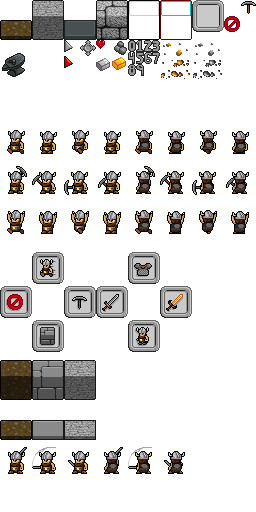
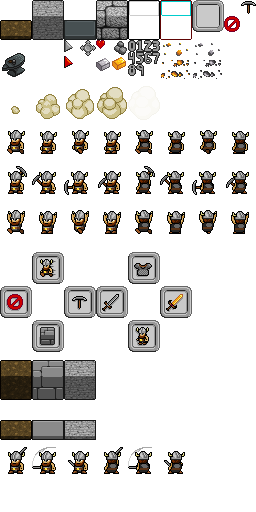
Bad Dust Performance

Changed region(s): [[0.125, 0.1562, 0.5, 0.25], [0.0312, 0.1875, 0.0938, 0.2188]]

diff --git a/src/ardust/client/Character.java b/src/ardust/client/Character.java
@@ -2,6 +2,7 @@ package ardust.client;
 
 import ardust.entities.Entity;
 import ardust.packets.DwarfRequestPacket;
+import ardust.packets.WorldUpdatesPacket;
 import ardust.shared.*;
 
 import java.awt.*;
@@ -26,6 +27,7 @@ public class Character {
     private int pathingFailStrike;
     private int miningFailStrike;
 
+
     public Character(Entity entity) {
         this.entity = entity;
     }
@@ -42,7 +44,7 @@ public class Character {
         }
     }
 
-    public void animateMining() {
+    public void animateMining( World world, Point2 targetLocation) {
         int currentFrame = sprite.currentFrame;
         switch (entity.orientation) {
             case NORTH:
@@ -54,6 +56,14 @@ public class Character {
         }
         if (sprite.currentFrame != currentFrame && sprite.currentFrame % 8 % 3 == 0) {
             GameLoop.soundBank.playSound(SoundBank.pickaxeSound, true);
+
+            if (random.nextDouble() < .3)
+            {
+                Point2 miningLocation = new Point2(location.x, location.y);
+                miningLocation.move(entity.orientation);
+                   world.temporaryAnimatedSprites.add(new SolitaryAnimatedSprite(16, 4, 5,miningLocation.x * Constants.TILE_BASE_WIDTH  + random.nextInt(24) - 12,
+                           miningLocation.y * Constants.TILE_BASE_HEIGHT - 32 + random.nextInt(24) - 12));
+            }
         }
     }
 
@@ -104,7 +114,7 @@ public class Character {
                 targetLocation.move(entity.orientation);
                 break;
             case MINING:
-                animateMining();
+                animateMining(world, targetLocation);
                 break;
             case ATTACK:
                 animateFighting();
@@ -141,12 +151,18 @@ public class Character {
                     }
                 }
                 break;
-            case USE:
-                if (!pathTowards(world, network, true)) {
+            case BUILD:
 
-                    // if reached, use
+                if (!pathTowards(world, network, false)) {
+
+                    if (pathingTarget.manhattanDistance(location.x, location.y) == 1 && !world.isTileOccupied(pathingTarget.x, pathingTarget.y, entity))
+                    {
+                        orientTowards(pathingTarget);
+                        network.send(new DwarfRequestPacket(id(), DwarfRequest.Build, entity.orientation));
+                    }
                     aiMode = CharacterAIMode.IDLE;
                 }
+
                 break;
             case IDLE:
                 break;
@@ -154,6 +170,15 @@ public class Character {
     }
 
     Point2 tempPoint = new Point2();
+
+    public void orientTowards(Point2 target)
+    {
+        if (target.x < location.x) entity.orientation = Orientation.WEST;
+        else if (target.x > location.x) entity.orientation = Orientation.EAST;
+        else if (target.y < location.y) entity.orientation = Orientation.NORTH;
+        else if (target.y > location.y) entity.orientation = Orientation.SOUTH;
+        else entity.orientation = Orientation.NONE;
+    }
 
     private Orientation orientationToward(World world, boolean goAround) {
         Orientation ew;
@@ -220,6 +245,13 @@ public class Character {
 
         tempPoint.set(targetLocation);
         tempPoint.move(orientation);
+
+        if (tempPoint.equals(pathingTarget) && aiMode == CharacterAIMode.BUILD)
+        {
+
+            return false;
+        }
+
         if (world.isTileOccupied(tempPoint, entity)) {
             pathingFailStrike -= 1;
             if (pathingFailStrike <= 0) {
@@ -292,8 +324,8 @@ public class Character {
         clearFailStrikes();
     }
 
-    public void use(Point2 target) {
-        aiMode = CharacterAIMode.USE;
+    public void build(Point2 target) {
+        aiMode = CharacterAIMode.BUILD;
         pathingTarget.set(target);
         clearFailStrikes();
     }

diff --git a/src/ardust/client/World.java b/src/ardust/client/World.java
@@ -9,6 +9,7 @@ import org.lwjgl.opengl.GL11;
 
 import java.awt.*;
 import java.nio.ByteBuffer;
+import java.util.ArrayList;
 import java.util.HashMap;
 
 public class World {
@@ -17,6 +18,7 @@ public class World {
     ClientWorld clientWorld;
     Entities entities;
     Characters characters;
+    ArrayList<SolitaryAnimatedSprite> temporaryAnimatedSprites = new ArrayList<SolitaryAnimatedSprite>();
 
 
     public World() {
@@ -31,6 +33,13 @@ public class World {
 
     public void tick(int deltaT, NetworkConnection network, GameCore core) {
         characters.tick(deltaT, this, network, core);
+        for (int i = temporaryAnimatedSprites.size() - 1; i >= 0; i--)
+        {
+            if (temporaryAnimatedSprites.get(i).animate())
+            {
+                temporaryAnimatedSprites.remove(i);
+            }
+        }
     }
 
     Point toDrawCoord = new Point();
@@ -83,6 +92,14 @@ public class World {
                                 tileSheetRect.x, tileSheetRect.y, tileSheetRect.width, tileSheetRect.height, false);
                     }
                 }
+
+                //Draw Animations
+                for (SolitaryAnimatedSprite sprite : temporaryAnimatedSprites)
+                {
+
+                    sprite.draw(p, viewportLocation);
+                }
+
                 //Draw Character
                 tilePoint.set(x, y);
                 Character character = charactersByPosition.get(tilePoint);
@@ -113,6 +130,12 @@ public class World {
         int x = worldLocation.x * Constants.TILE_BASE_WIDTH;
         int y = worldLocation.y * Constants.TILE_BASE_HEIGHT;
         result.setLocation(x, y);
+    }
+
+    public static void globalNonTileCoordToScreenCoord(int x, int y, Point result, Point viewportLocation)
+    {
+      result.setLocation(x - viewportLocation.x, y - viewportLocation.y);
+
     }
 
     public static void localCoordToGlobalTile(int x, int y, Point viewportLocation, Point result) {

diff --git a/src/ardust/client/SolitaryAnimatedSprite.java b/src/ardust/client/SolitaryAnimatedSprite.java
@@ -1,5 +1,10 @@
 package ardust.client;
 
+import org.lwjgl.opengl.ARBDrawElementsBaseVertex;
+
+import java.awt.*;
+import java.util.Random;
+
 /**
  * Created with IntelliJ IDEA.
  * User: Eric
@@ -7,5 +12,39 @@ package ardust.client;
  * Time: 12:45 PM
  * To change this template use File | Settings | File Templates.
  */
-public class SolitaryAnimatedSprite {
+public class SolitaryAnimatedSprite extends AnimatedSprite {
+    public int xLocation, yLocation;
+    int startingFrame;
+    int framesInAnimation;
+    int ticksPerFrame;
+
+    public SolitaryAnimatedSprite(int startingFrame, int framesInAnimation, int ticksPerFrame, int xLocation, int yLocation)
+    {
+        this.startingFrame = startingFrame;
+        this.framesInAnimation = framesInAnimation;
+        this.ticksPerFrame = ticksPerFrame;
+        this.xLocation = xLocation;
+        this.yLocation = yLocation;
+    }
+
+    public boolean animate() {
+        int tmp = accumulator;
+        accumulator = (accumulator + 1) % (ticksPerFrame * framesInAnimation);
+
+        currentFrame = startingFrame + (accumulator / ticksPerFrame);
+        return accumulator < tmp;
+    }
+
+    Point point = new Point();
+    Rectangle tileSheetRect = new Rectangle();
+
+    public void draw(Painter p, Point viewportLocation)
+    {
+
+        p.getSourceRectFromTileSheetIndex(currentFrame, tileSheetRect);
+
+        World.globalNonTileCoordToScreenCoord(xLocation, yLocation, point, viewportLocation);
+
+        p.draw(point.x, point.y, tileSheetRect.x, tileSheetRect.y, tileSheetRect.width, tileSheetRect.height, false);
+    }
 }

diff --git a/src/ardust/client/DwarfActionMenu.java b/src/ardust/client/DwarfActionMenu.java
@@ -39,7 +39,7 @@ public class DwarfActionMenu {
             return craftingMenu ? GameCore.UserInputState.ATTEMPTING_SWORD_PURCHASE : GameCore.UserInputState.HALT;
         if (buttons.get(MINE).contains(localX, localY))
             return craftingMenu ? GameCore.UserInputState.ATTEMPTING_GOLD_SWORD_PURCHASE : GameCore.UserInputState.MINE;
-        if (!craftingMenu && buttons.get(USE).contains(localX, localY)) return GameCore.UserInputState.USE;
+        if (!craftingMenu && buttons.get(USE).contains(localX, localY)) return GameCore.UserInputState.BUILD;
 
         return GameCore.UserInputState.NONE;
     }
@@ -56,6 +56,20 @@ public class DwarfActionMenu {
         Point drawPoint = getDrawPoint(viewportLocation);
 
         p.draw(drawPoint.x, drawPoint.y, (craftingMenu ? 96 : 0), 240, 96, 112, false);
+
+        if (craftingMenu)
+        {
+             p.draw(drawPoint.x + 46, drawPoint.y - 10, 96, 56, 16, 16, false);
+             SpriteNumber.drawNumber(5, drawPoint.x + 36, drawPoint.y - 8, p);
+             p.draw(drawPoint.x - 16, drawPoint.y  + 50, 96, 56, 16, 16, false);
+             SpriteNumber.drawNumber(5, drawPoint.x  - 26, drawPoint.y  + 52, p);
+             p.draw(drawPoint.x + 108, drawPoint.y + 50, 112, 56, 16, 16, false);
+             SpriteNumber.drawNumber(5, drawPoint.x + 98, drawPoint.y + 52, p);
+             p.draw(drawPoint.x + 48, drawPoint.y + 114, 112, 40, 16, 16, false);
+             SpriteNumber.drawNumber(20, drawPoint.x + 38, drawPoint.y + 116, p);
+        }
+
+
         p.flush();
     }
 

diff --git a/src/ardust/client/GameCore.java b/src/ardust/client/GameCore.java
@@ -31,7 +31,7 @@ public class GameCore {
         WALK,
         HALT,
         MINE,
-        USE,
+        BUILD,
         ATTEMPTING_SWORD_PURCHASE,
         ATTEMPTING_ARMOR_PURCHASE,
         ATTEMPTING_GOLD_SWORD_PURCHASE
@@ -187,8 +187,8 @@ public class GameCore {
                         case MINE:
                             selectedDwarf.mineTo(currentActionMenu.location);
                             break;
-                        case USE:
-                            selectedDwarf.use(currentActionMenu.location);
+                        case BUILD:
+                            selectedDwarf.build(currentActionMenu.location);
                             break;
                         case ATTEMPTING_ARMOR_PURCHASE:
                             network.send(new DwarfRequestPacket(selectedDwarf.id(), DwarfRequest.CraftArmor, Orientation.NORTH));

diff --git a/src/ardust/client/AnimatedSprite.java b/src/ardust/client/AnimatedSprite.java
@@ -10,9 +10,12 @@ public class AnimatedSprite {
 
     }
 
-    public void animate(int startingFrame, int framesInAnimation, int ticksPerFrame) {
+    public boolean animate(int startingFrame, int framesInAnimation, int ticksPerFrame) {
+        int tmp = accumulator;
         accumulator = (accumulator + 1) % (ticksPerFrame * framesInAnimation);
-        currentFrame = startingFrame + accumulator / ticksPerFrame;
+
+        currentFrame = startingFrame + (accumulator / ticksPerFrame);
+        return accumulator < tmp;
     }
 
     public void draw(Painter p, int x, int y, boolean flip) {

diff --git a/src/ardust/client/Painter.java b/src/ardust/client/Painter.java
@@ -66,6 +66,7 @@ public class Painter {
         ByteBuffer textureBuffer = convertImageData(image);
 
         GL11.glTexImage2D(GL11.GL_TEXTURE_2D, 0, GL11.GL_RGBA, image.getWidth(), image.getHeight(), 0, GL11.GL_RGBA, GL11.GL_UNSIGNED_BYTE, textureBuffer);
+
     }
 
     private ByteBuffer convertImageData(BufferedImage bufferedImage) {
@@ -113,6 +114,8 @@ public class Painter {
         GL11.glBegin(GL11.GL_QUADS);
         GL11.glColor4f(1f, 1f, 1f, 1f);
     }
+
+
 
     void draw(int x, int y, int textureX, int textureY, int width, int height, boolean flip) {
 

diff --git a/src/ardust/shared/Constants.java b/src/ardust/shared/Constants.java
@@ -60,6 +60,7 @@ public class Constants {
     public static final int GOLD = 3;
     public static final int IRON = 4;
     public static final int ANVIL = 8;
+    public static final byte STONE_WALL = 73;
     public static final int WALK_LOOP_LIMIT = 5;
     public static final int MINE_FAIL_LIMIT = 30;
 
@@ -82,6 +83,8 @@ public class Constants {
                 return 7000;
             case IRON:
                 return 3000;
+            case STONE_WALL:
+                return 10000;
             default:
                 return 0;
         }

diff --git a/src/ardust/server/Dwarves.java b/src/ardust/server/Dwarves.java
@@ -65,6 +65,14 @@ public class Dwarves {
                 }
 
                 break;
+            case Build:
+                nextPosition = getPositionAfterMovement(entity);
+                if (player.getStone() >= 1 && world.read(nextPosition.x, nextPosition.y) == 0) {
+                     player.addStone(-1);
+                    world.write(nextPosition.x, nextPosition.y,Constants.STONE_WALL);
+                }
+
+                break;
 
             case Attack:
 

diff --git a/src/ardust/server/Player.java b/src/ardust/server/Player.java
@@ -26,7 +26,7 @@ public class Player {
         name = "Unknown-" + hashCode();
         id = 0;
         values = new Values(Constants.V_PLAYER_VALUES_SIZE);
-        values.set(Constants.V_PLAYER_STONES, 0);
+        values.set(Constants.V_PLAYER_STONES, 5);
         values.set(Constants.V_PLAYER_IRON, 2);
         values.set(Constants.V_PLAYER_GOLD, 1);
         values.set(Constants.V_PLAYER_ID, id);

diff --git a/src/ardust/server/ServerWorld.java b/src/ardust/server/ServerWorld.java
@@ -53,7 +53,7 @@ public class ServerWorld {
 
             for (int y = 0; y < Constants.WORLD_LENGTH; y++)
                 for (int x = 0; x < Constants.WORLD_LENGTH; x++)
-                    write(x, y, (byte) (2 + random.nextInt(3)));
+                    write(x, y, (byte) (1 + random.nextInt(4)));
         clearPendingUpdates();
     }
 

diff --git a/src/ardust/shared/Point2.java b/src/ardust/shared/Point2.java
@@ -50,6 +50,11 @@ public class Point2 {
         return "{" + x + ", " + y + "}";
     }
 
+    public int manhattanDistance(int otherX, int otherY)
+    {
+        return Math.abs(otherX - x) + Math.abs(otherY - y);
+    }
+
     public void move(Orientation orientation) {
         switch (orientation) {
             case NORTH:
